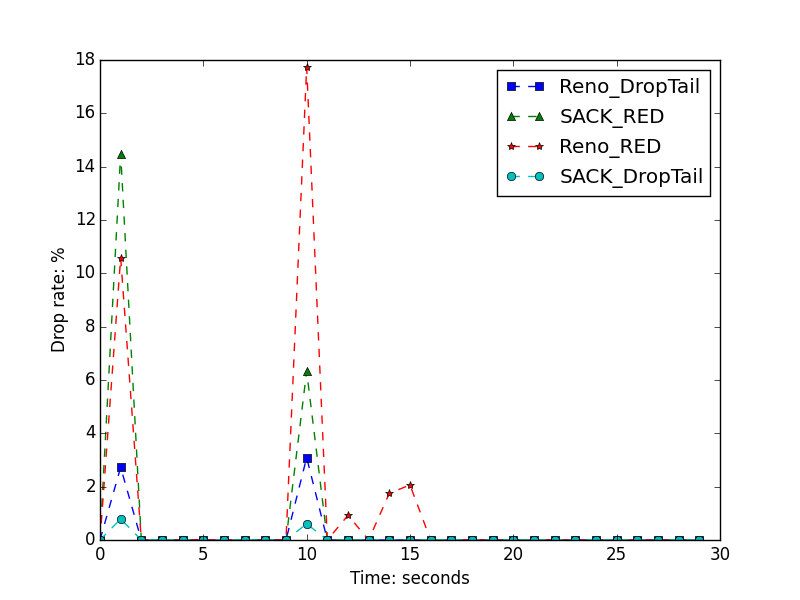
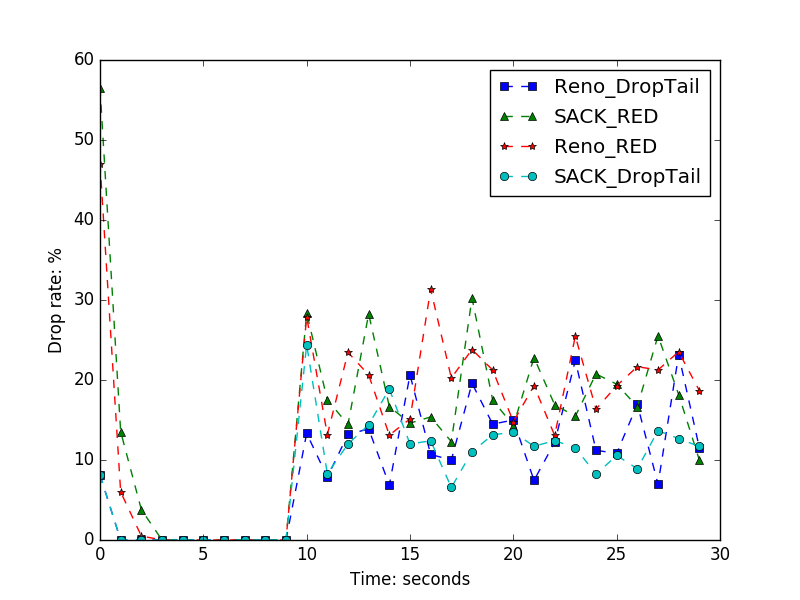
exp3

diff --git a/p3/exp3/run_exp3.py b/p3/exp3/run_exp3.py
@@ -11,35 +11,38 @@ def statistic(fname, duration):
     # Open and read the trace file
     with open(fname) as f:
         lines = f.readlines()
-    sendTime = {}
+    total_rtt = {}
     send = {}
     recv = {}
-    triptime = {}
-    size = {}
+    window = {}
     thpt = []
     latency = []
-    dp = {}
     drop = []
     for i in range(duration):
-        dp[i] = send[i] = recv[i] = triptime[i] = size[i] = 0
+        send[i] = recv[i] = total_rtt[i] = 0
     for l in lines:
         fields = l.split()
-        if fields[0] == '+' and fields[2] == '0':
-            sendTime[fields[11]] = float(fields[1])
-            timeSlot = int(float(fields[1]))
+        action = fields[0]
+        time = float(fields[1])
+        source = fields[2]
+        dest = fields[3]
+        packetType = fields[4]
+        seq = fields[10]
+
+        if action == '+' and source == '0':
+            timeSlot = int(float(time))
+            if seq not in window:
+                window[seq] = time
             send[timeSlot] += 1
-        elif fields[0] == 'r' and fields[3] == '3':
+        elif action == 'r' and dest == '0' and packetType == 'ack' and seq in window:
             timeSlot = int(float(fields[1]))
             recv[timeSlot] += 1
-            size[timeSlot] += int(fields[5])
-            triptime[timeSlot] += (float(fields[1]) - sendTime[fields[11]])
-        elif fields[0] == 'd' and fields[4] == 'tcp':
-            timeSlot = int(float(fields[1]))
-            dp[timeSlot] += 1
+            total_rtt[timeSlot] += time - window[seq]
+            window.pop(seq)
     for i in range(duration):
-        thpt.append(size[i]*8.0/1024)
-        latency.append(triptime[i]*1.0/recv[i] if recv[i] != 0 else 0)
-        drop.append(dp[i]*1.0/send[i]*100 if send[i] != 0 else 0)
+        thpt.append(recv[i]*1040*8.0/1024)
+        latency.append(total_rtt[i]*1.0/recv[i] if recv[i] != 0 else 0)
+        drop.append((send[i]-recv[i])*1.0/send[i]*100 if send[i] != 0 else 0)
     return thpt, latency, drop
 
 def runExp1(duration):
@@ -49,9 +52,9 @@ def runExp1(duration):
         # For each queue type
         for queueName in QueueType:
             fname = 'exp3_{0}_{1}.tr'.format(typeName, queueName)
-            call(["/course/cs4700f12/ns-allinone-2.35/bin/ns", "experiment3.tcl", TCPType[typeName], queueName, fname, str(duration)])
+            call(["ns", "experiment3.tcl", TCPType[typeName], queueName, fname, str(duration)])
+            #call(["/course/cs4700f12/ns-allinone-2.35/bin/ns", "experiment3.tcl", TCPType[typeName], queueName, fname, str(duration)])
             t, l, d = statistic(fname, duration)
-            os.remove(fname)
             stat['thpt'][typeName+'_'+queueName] = t
             stat['lat'][typeName+'_'+queueName] = l
             stat['drop'][typeName+'_'+queueName] = d            
